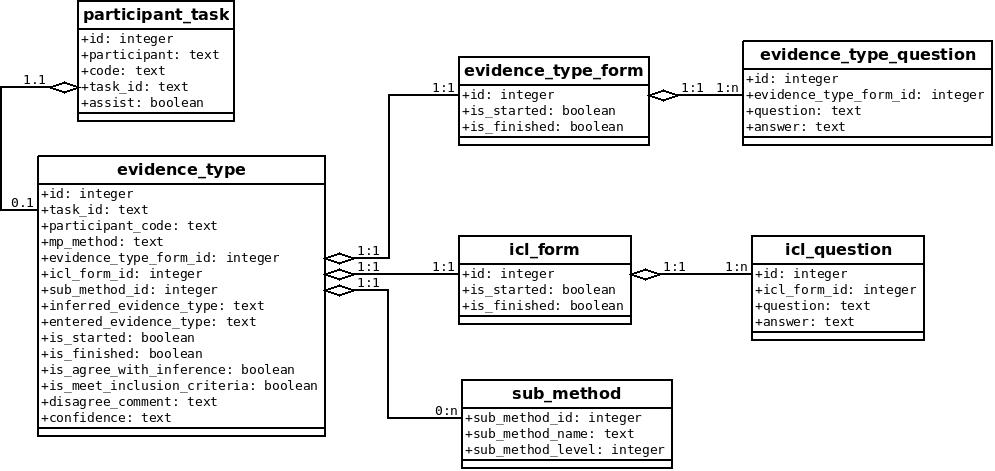
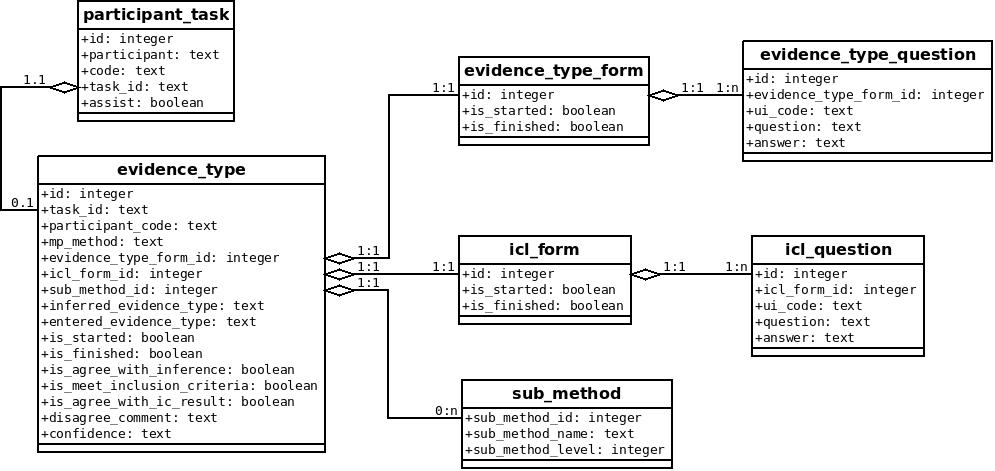
save finished status at the end of form

Changed region(s): [[0.0312, 0.8323, 0.3427, 0.9809], [0.7477, 0.2081, 1.0, 0.3567], [0.7477, 0.6242, 0.9347, 0.7728]]

diff --git a/source/evidence_type_calculator/views/forms/index.html b/source/evidence_type_calculator/views/forms/index.html
@@ -116,8 +116,14 @@
 	<!-- Agree or disagree with inclusion criteria result -->
 	<br>
 	<div id="agree-with-ic-div" style="display:none;">
-	  <button type="button" class="btn btn-default" id="ic-agree" onclick="ajax('', [''], ':eval');">Agree</button>
-	  <button type="button" class="btn btn-default" id="ic-disagree" onclick="">Disagree</button>
+	  <button type="button" class="btn btn-default" id="ic-agree" onclick="ajax('agreeInclusionCriteria');">Agree</button>
+	  <button type="button" class="btn btn-default" id="ic-disagree" onclick="ajax('disagreeInclusionCriteria');">Disagree</button>
+	</div>
+
+	<div id="ic-comment-div" style="display:none;">
+	  <label for="usr">Comment: </label>
+	  <input name="ic-comment" type="text" class="form-control" id="ic-comment">
+	  <button type="button" class="btn btn-default" id="finish-task" onclick="ajax('finishTask', ['ic-comment'], ':eval');">Finish</button>
 	</div>
 	
 	</form>

diff --git a/source/evidence_type_calculator/static/js/drivecalculator.js b/source/evidence_type_calculator/static/js/drivecalculator.js
@@ -18,6 +18,7 @@ function hideForms() {
 
     $("#ic-div").css("display","none");
     $("#agree-with-ic-div").css("display","none");
+    $("#ic-comment-div").css("display","none");
 }
 
 $(document).ready(function(){
@@ -70,5 +71,14 @@ $(document).ready(function(){
 	$("#entered-evidencetype-div").css("display","block");
     });
 
+    $('#ic-agree').on("click", function(e){
+	$("#ic-comment-div").css("display","block");
+	$("#agree-with-ic-div").css("display","none");
+    });
+
+    $('#ic-disagree').on("click", function(e){
+	$("#ic-comment-div").css("display","block");
+	$("#agree-with-ic-div").css("display","none");
+    });
     
 });

diff --git a/source/evidence_type_calculator/controllers/forms.py b/source/evidence_type_calculator/controllers/forms.py
@@ -3,12 +3,23 @@
 def index():
     print "[INFO] form controller index..."
     session.task_id = request.vars.task_id
-    part_code = session.part_code
+    if not session.task_id or not session.part_code:
+        print "[ERROR] participant code (%s) or task_id (%s) undefined!" % (session.part_code, session.task_id)
+        return
+    else:
+        print "participant (%s), task (%s)" % (session.part_code, session.task_id)    
+
+    # check if there is finished evidence type form or inclusion criteria form available to load 
+    sql = "SELECT evf.id, icf.id FROM evidence_type e LEFT JOIN evidence_type_form evf ON e.evidence_type_form_id = evf.id LEFT JOIN icl_form icf ON e.icl_form_id = icf.id WHERE e.participant_code = '%s' AND e.task_id = '%s';" % (session.part_code, session.task_id)
+    form_status_res = db.executesql(sql)
     
-    print "participant (%s), task (%s)" % (part_code, session.task_id)
+    print form_status_res
+    if form_status_res:        
+        ev_form_id, ic_form_id = form_status_res[0][0], form_status_res[0][1]
+        print ev_form_id, ic_form_id
     
     return dict()
-        
+
     
 ## save evidence type questions to table evidence_type_form, evidence_type_question
 def saveEvidenceTypeQuestions():
@@ -19,6 +30,7 @@ def saveEvidenceTypeQuestions():
         session.mp_method = request.vars.evidencetype
 
         ev_form_id = db.evidence_type_form.insert(is_started=True, is_finished=False)
+        session.ev_form_id = ev_form_id
         saveEvidenceTypeQuestionsHelper(session.mp_method, request.vars, ev_form_id)
 
         # create evidence_type when assist with inference
@@ -107,6 +119,8 @@ def saveInclusionCriteriaQuestions():
     session.mp_method = request.vars.evidencetype
 
     ic_form_id = db.icl_form.insert(is_started=True, is_finished=False)
+    session.ic_form_id = ic_form_id
+    
     saveInclusionCriteriaQuestionsHelper(session.mp_method, request.vars, ic_form_id)
     
     db((db.evidence_type.participant_code == session.part_code) & (db.evidence_type.task_id == session.task_id)).update(icl_form_id = ic_form_id)
@@ -117,7 +131,7 @@ def saveInclusionCriteriaQuestions():
     if ic_result:
         ic_result_str = "Yes"
         
-    db((db.evidence_type.participant_code == session.part_code) & (db.evidence_type.task_id == session.task_id)).update(is_meet_inclusion_criteria = is_result)        
+    db((db.evidence_type.participant_code == session.part_code) & (db.evidence_type.task_id == session.task_id)).update(is_meet_inclusion_criteria = ic_result)
     
     r = '$("#ic-div").css("display","block");$("#agree-with-ic-div").css("display","block");jQuery("#ic-result").val("%s");$("#calculate").hide();' % ic_result_str
     return r
@@ -153,12 +167,29 @@ def getInferredEvType():
 
 def getInclusionCriteriaResult():
     return True
+
+
+def agreeInclusionCriteria():
+    print '[INFO] form controller agree inclusion criteria...'
+    db((db.evidence_type.participant_code == session.part_code) & (db.evidence_type.task_id == session.task_id)).update(is_agree_with_ic_result = True)
+
+
+def disagreeInclusionCriteria():
+    print '[INFO] form controller disagree inclusion criteria...'
+    db((db.evidence_type.participant_code == session.part_code) & (db.evidence_type.task_id == session.task_id)).update(is_agree_with_ic_result = False)
+
+
+# finished current task, redirect to summary page, mark the finished status
+def finishTask():
+    print '[INFO] form controller finish task...'
+    db(db.icl_form.id == session.ic_form_id).update(is_finished = True)
     
+    db((db.evidence_type.participant_code == session.part_code) & (db.evidence_type.task_id == session.task_id)).update(is_finished = True, disagree_comment = request.vars["ic-comment"])
 
-def printTables():
-    # print db.executesql('SELECT * FROM participant_task;')    
-    print db.executesql('SELECT * FROM evidence_type;')
-    print db.executesql('SELECT * FROM evidence_type_form;')
-    print db.executesql('SELECT * FROM evidence_type_question;')
-
+    session.mp_method = None
+    session.task_id = None
+    session.ic_form_id = None
+    
+    redirect(URL(request.application, 'summary','index'), client_side=True)
+    
 

diff --git a/source/evidence_type_calculator/controllers/summary.py b/source/evidence_type_calculator/controllers/summary.py
@@ -3,7 +3,7 @@ def index():
     print '[INFO] summary controller index...'
     
     # truncate all data - only for dev/test
-    truncateAllTables()
+    # truncateAllTables()
     
     participants = getParticipants()
     
@@ -18,15 +18,16 @@ def index():
 
 def getMyTask():
     print '[INFO] summary get my task...'
-    print request.vars    
-    session.part_code = request.vars.participant
+    print request.vars
+    if request.vars.participant:
+        session.part_code = request.vars.participant        
 
     task = getNextTaskByParticipant(session.part_code)
     progress = getProgressForParticipant(session.part_code)
     
     print "[DEBUG] user (%s) task progress %s (%s)" % (session.part_code, progress["finished"], progress["total"])
     
-    task_html = "<h5>Current progress: finisehd <span class='label label-default'>%s</span> &nbsp;&nbsp; total <span class='label label-default'>%s</span></h5><br>My next task:<br><br><table class='table'><tr><td>participant</td><td>task</td><td>with assist? (T=Yes, F=No)</td><td>link</td></tr>" % (progress["finished"], progress["total"])
+    task_html = "<h5>Current progress: finished <span class='label label-default'>%s</span> &nbsp;&nbsp; total <span class='label label-default'>%s</span></h5><br>My next task:<br><br><table class='table'><tr><td>participant</td><td>task</td><td>with assist? (T=Yes, F=No)</td><td>link</td></tr>" % (progress["finished"], progress["total"])
     
     task_html += "<tr><td>%s</td><td>%s</td><td>%s</td><td><a href='%s'>%s<a></td></tr></table>" % (task["part_code"], task["task_id"], task["assist"], URL(request.application, 'forms', 'index', vars=dict(task_id=task["task_id"])), "task " + str(task["task_id"]))
     
@@ -37,14 +38,14 @@ def getMyTask():
 # get next task for the participant
 # return task (participant_code, task_id, is assist)
 def getNextTaskByParticipant(part_code):
-    sql = "SELECT p.participant, p.code, p.task_id, p.assist, e.is_started FROM participant_task p LEFT JOIN evidence_type e ON p.code=e.participant_code AND p.task_id = e.task_id WHERE p.code='%s' AND e.is_finished isnull ORDER BY p.task_id LIMIT 1;" % (part_code)
-    print "[DEBUG] get tasks by participant: " + sql
+    sql = "SELECT p.participant, p.code, p.task_id, p.assist, e.is_started FROM participant_task p LEFT JOIN evidence_type e ON p.code=e.participant_code AND p.task_id = e.task_id WHERE p.code='%s' AND (e.is_finished isnull OR e.is_finished = 'F') ORDER BY p.task_id LIMIT 1;" % (part_code)
     
     result = db.executesql(sql)
     if not result:
         return None    
     task = result[0]
 
+    # print "[DEBUG] next task for participant (%s) is task_id (%s)" % (part_code, task[2])
     return {"part_code": task[1], "task_id": task[2], "assist": task[3]}
 
 
@@ -58,7 +59,7 @@ def getProgressForParticipant(part_code):
 
 # get count of finished tasks for the participant
 def getFinshedCntForParticipant(part_code):
-    sql = "SELECT count(*) FROM participant_task p LEFT JOIN evidence_type e ON p.code=e.participant_code AND p.task_id = e.task_id WHERE p.code='%s' AND e.is_finished notnull;" % (part_code)
+    sql = "SELECT count(*) FROM participant_task p LEFT JOIN evidence_type e ON p.code=e.participant_code AND p.task_id = e.task_id WHERE p.code='%s' AND e.is_finished = 'T';" % (part_code)
     return db.executesql(sql)[0]
 
 

diff --git a/source/evidence_type_calculator/models/summary.py b/source/evidence_type_calculator/models/summary.py
@@ -8,18 +8,18 @@ db = DAL('sqlite://storage.sqlite')
 # evidence type form
 db.define_table('evidence_type_form', Field('is_started', type='boolean'), Field('is_finished', type='boolean'))
 
-db.define_table('evidence_type_question', Field('evidence_type_form_id', db.evidence_type_form), Field('question', type='string'), Field('answer', type='string'))
+db.define_table('evidence_type_question', Field('evidence_type_form_id', db.evidence_type_form), Field('ui_code', type='string'), Field('question', type='string'), Field('answer', type='string'))
 
 # icl form
 db.define_table('icl_form', Field('is_started', type='boolean'), Field('is_finished', type='boolean'))
 
-db.define_table('icl_question', Field('icl_form_id', db.icl_form), Field('question', type='string'), Field('answer', type='string'))
+db.define_table('icl_question', Field('icl_form_id', db.icl_form), Field('ui_code', type='string'), Field('question', type='string'), Field('answer', type='string'))
 
 # sub method type
 db.define_table('sub_method', Field('sub_method_name', type='string'), Field('sub_method_level', type='integer'))
 
 # evidence type
-db.define_table('evidence_type', Field('task_id', type='string'), Field('participant_code', type='string'), Field('mp_method', type='string'), Field('evidence_type_form_id', db.evidence_type_form), Field('icl_form_id', db.icl_form), Field('sub_method_id', db.sub_method), Field('inferred_evidence_type', type='string'), Field('entered_evidence_type', type='string'), Field('is_started', type='boolean'), Field('is_finished', type='boolean'), Field('is_agree_with_inference', type='boolean'), Field('is_meet_inclusion_criteria', type='boolean'), Field('confidence', type='string'), Field('disagree_comment', type='string'))
+db.define_table('evidence_type', Field('task_id', type='string'), Field('participant_code', type='string'), Field('mp_method', type='string'), Field('evidence_type_form_id', db.evidence_type_form), Field('icl_form_id', db.icl_form), Field('sub_method_id', db.sub_method), Field('inferred_evidence_type', type='string'), Field('entered_evidence_type', type='string'), Field('is_started', type='boolean'), Field('is_finished', type='boolean'), Field('is_agree_with_inference', type='boolean'), Field('is_meet_inclusion_criteria', type='boolean'), Field('is_agree_with_ic_result', type='boolean'), Field('confidence', type='string'), Field('disagree_comment', type='string'))
 
 # participant task
 db.define_table('participant_task', Field('participant', type='string'), Field('code', type='string'), Field('task_id', type='string'), Field('assist', type='boolean'))
